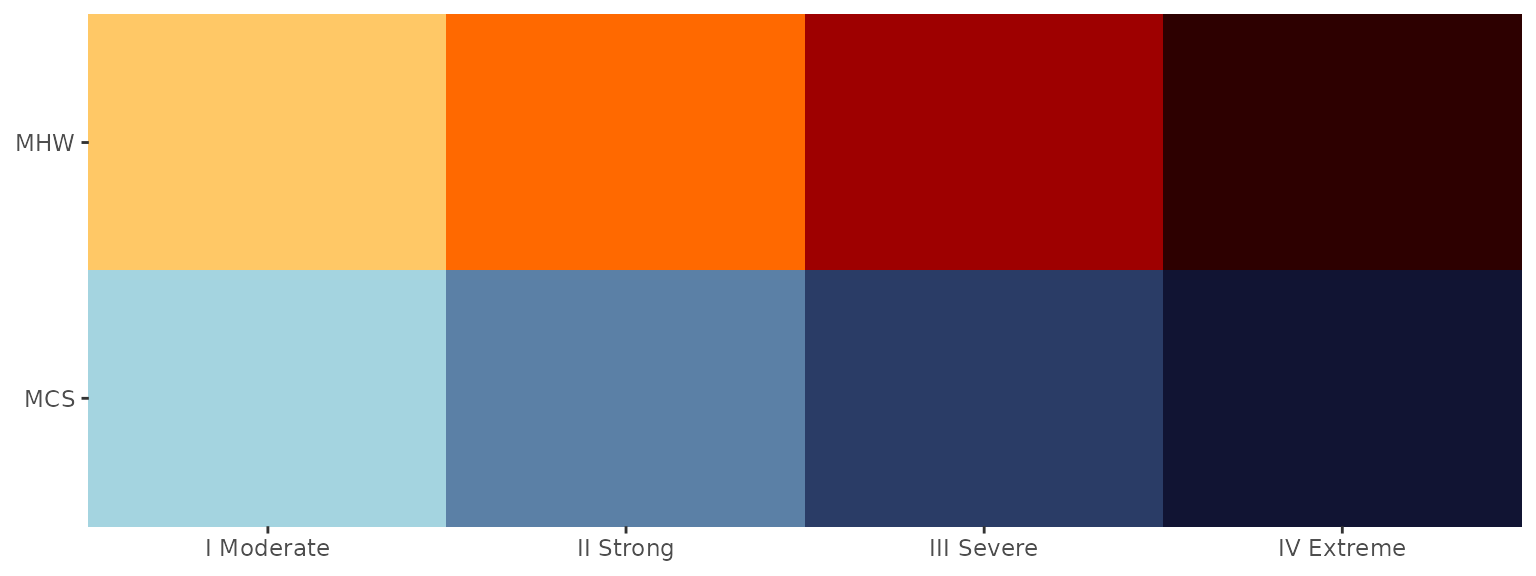
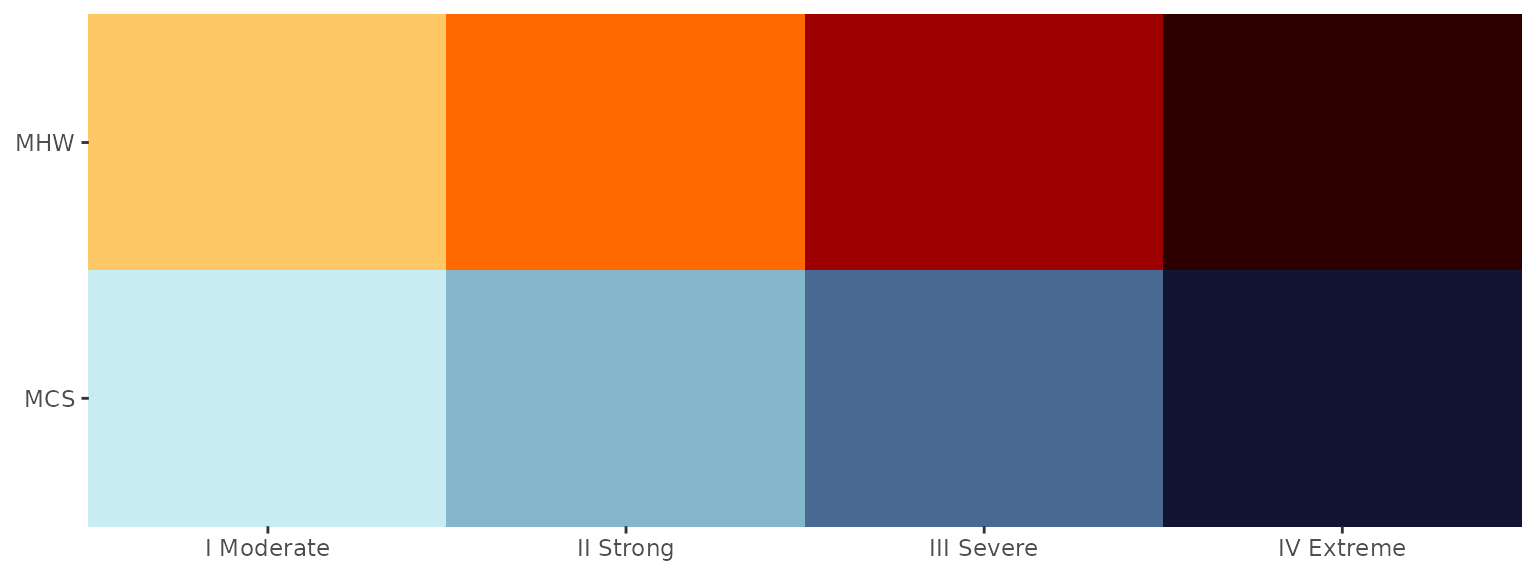
Rebuilt site to fix some formatting issues and for improved MCS colour palette

diff --git a/docs/articles/detection_and_visualisation.html b/docs/articles/detection_and_visualisation.html
@@ -46,7 +46,7 @@
       </button>
       <span class="navbar-brand">
         <a class="navbar-link" href="../index.html">heatwaveR</a>
-        <span class="version label label-default" data-toggle="tooltip" data-placement="bottom" title="Released version">0.4.5.9001</span>
+        <span class="version label label-default" data-toggle="tooltip" data-placement="bottom" title="Released version">0.4.5.9002</span>
       </span>
     </div>
 
@@ -128,7 +128,7 @@
       <h1 data-toc-skip>Basic Detection and Visualisation of Events</h1>
                         <h4 class="author">AJ Smit and Robert W Schlegel</h4>
             
-            <h4 class="date">2021-08-25</h4>
+            <h4 class="date">2021-09-21</h4>
       
       <small class="dont-index">Source: <a href="https://github.com/robwschlegel/heatwaveR/blob/master/vignettes/detection_and_visualisation.Rmd"><code>vignettes/detection_and_visualisation.Rmd</code></a></small>
       <div class="hidden name"><code>detection_and_visualisation.Rmd</code></div>
@@ -443,11 +443,17 @@
   <span class="va">positions</span> <span class="op">&lt;-</span> <span class="fu">plotly</span><span class="fu">::</span><span class="fu"><a href="https://docs.ropensci.org/plotly/reference/group2NA.html">group2NA</a></span><span class="op">(</span><span class="va">positions</span>, groupNames <span class="op">=</span> <span class="st">"ids"</span><span class="op">)</span>
   <span class="va">positions</span> <span class="op">&lt;-</span> <span class="va">positions</span><span class="op">[</span><span class="fu">stats</span><span class="fu">::</span><span class="fu"><a href="https://rdrr.io/r/stats/complete.cases.html">complete.cases</a></span><span class="op">(</span><span class="va">positions</span><span class="op">$</span><span class="va">ids</span><span class="op">)</span>,<span class="op">]</span>
   <span class="va">positions</span> <span class="op">&lt;-</span> <span class="fu">dplyr</span><span class="fu">::</span><span class="fu"><a href="https://dplyr.tidyverse.org/reference/mutate-joins.html">left_join</a></span><span class="op">(</span><span class="va">positions</span>, <span class="va">data</span><span class="op">[</span>,<span class="op">-</span><span class="fu"><a href="https://rdrr.io/r/base/c.html">c</a></span><span class="op">(</span><span class="fl">2</span>,<span class="fl">3</span><span class="op">)</span><span class="op">]</span>, by <span class="op">=</span> <span class="st">"x"</span><span class="op">)</span>
-  <span class="va">positions</span><span class="op">$</span><span class="va">PANEL</span> <span class="op">&lt;-</span> <span class="va">positions</span><span class="op">$</span><span class="va">PANEL</span><span class="op">[</span><span class="fu">stats</span><span class="fu">::</span><span class="fu"><a href="https://rdrr.io/r/stats/complete.cases.html">complete.cases</a></span><span class="op">(</span><span class="va">positions</span><span class="op">$</span><span class="va">PANEL</span><span class="op">)</span><span class="op">]</span><span class="op">[</span><span class="fl">1</span><span class="op">]</span>
-  <span class="va">positions</span><span class="op">$</span><span class="va">group</span> <span class="op">&lt;-</span> <span class="va">positions</span><span class="op">$</span><span class="va">group</span><span class="op">[</span><span class="fu">stats</span><span class="fu">::</span><span class="fu"><a href="https://rdrr.io/r/stats/complete.cases.html">complete.cases</a></span><span class="op">(</span><span class="va">positions</span><span class="op">$</span><span class="va">group</span><span class="op">)</span><span class="op">]</span><span class="op">[</span><span class="fl">1</span><span class="op">]</span>
+  <span class="kw">if</span><span class="op">(</span><span class="fu"><a href="https://rdrr.io/r/base/length.html">length</a></span><span class="op">(</span><span class="fu">stats</span><span class="fu">::</span><span class="fu"><a href="https://rdrr.io/r/stats/complete.cases.html">complete.cases</a></span><span class="op">(</span><span class="va">positions</span><span class="op">$</span><span class="va">PANEL</span><span class="op">)</span><span class="op">)</span> <span class="op">&gt;</span> <span class="fl">1</span><span class="op">)</span> 
+    <span class="va">positions</span><span class="op">$</span><span class="va">PANEL</span> <span class="op">&lt;-</span> <span class="va">positions</span><span class="op">$</span><span class="va">PANEL</span><span class="op">[</span><span class="fu">stats</span><span class="fu">::</span><span class="fu"><a href="https://rdrr.io/r/stats/complete.cases.html">complete.cases</a></span><span class="op">(</span><span class="va">positions</span><span class="op">$</span><span class="va">PANEL</span><span class="op">)</span><span class="op">]</span><span class="op">[</span><span class="fl">1</span><span class="op">]</span>
+  <span class="kw">if</span><span class="op">(</span><span class="fu"><a href="https://rdrr.io/r/base/length.html">length</a></span><span class="op">(</span><span class="fu">stats</span><span class="fu">::</span><span class="fu"><a href="https://rdrr.io/r/stats/complete.cases.html">complete.cases</a></span><span class="op">(</span><span class="va">positions</span><span class="op">$</span><span class="va">group</span><span class="op">)</span><span class="op">)</span> <span class="op">&gt;</span> <span class="fl">1</span><span class="op">)</span> 
+    <span class="va">positions</span><span class="op">$</span><span class="va">group</span> <span class="op">&lt;-</span> <span class="va">positions</span><span class="op">$</span><span class="va">group</span><span class="op">[</span><span class="fu">stats</span><span class="fu">::</span><span class="fu"><a href="https://rdrr.io/r/stats/complete.cases.html">complete.cases</a></span><span class="op">(</span><span class="va">positions</span><span class="op">$</span><span class="va">group</span><span class="op">)</span><span class="op">]</span><span class="op">[</span><span class="fl">1</span><span class="op">]</span>
   
   <span class="co"># Run the plotly polygon code</span>
-  <span class="fu"><a href="https://rdrr.io/r/utils/getFromNamespace.html">getFromNamespace</a></span><span class="op">(</span><span class="st">"geom2trace.GeomPolygon"</span>, <span class="fu"><a href="https://rdrr.io/r/base/ns-internal.html">asNamespace</a></span><span class="op">(</span><span class="st">"plotly"</span><span class="op">)</span><span class="op">)</span><span class="op">(</span><span class="va">positions</span><span class="op">)</span>
+  <span class="kw">if</span><span class="op">(</span><span class="fu"><a href="https://rdrr.io/r/base/length.html">length</a></span><span class="op">(</span><span class="fu"><a href="https://rdrr.io/r/base/unique.html">unique</a></span><span class="op">(</span><span class="va">positions</span><span class="op">$</span><span class="va">PANEL</span><span class="op">)</span><span class="op">)</span> <span class="op">==</span> <span class="fl">1</span><span class="op">)</span><span class="op">{</span>
+    <span class="fu"><a href="https://rdrr.io/r/utils/getFromNamespace.html">getFromNamespace</a></span><span class="op">(</span><span class="st">"geom2trace.GeomPolygon"</span>, <span class="fu"><a href="https://rdrr.io/r/base/ns-internal.html">asNamespace</a></span><span class="op">(</span><span class="st">"plotly"</span><span class="op">)</span><span class="op">)</span><span class="op">(</span><span class="va">positions</span><span class="op">)</span>
+  <span class="op">}</span> <span class="kw">else</span><span class="op">{</span>
+    <span class="kw"><a href="https://rdrr.io/r/base/function.html">return</a></span><span class="op">(</span><span class="op">)</span>
+  <span class="op">}</span>
 <span class="op">}</span>
 
 <span class="co"># Time series</span>

diff --git a/docs/articles/event_categories.html b/docs/articles/event_categories.html
@@ -46,7 +46,7 @@
       </button>
       <span class="navbar-brand">
         <a class="navbar-link" href="../index.html">heatwaveR</a>
-        <span class="version label label-default" data-toggle="tooltip" data-placement="bottom" title="Released version">0.4.5.9001</span>
+        <span class="version label label-default" data-toggle="tooltip" data-placement="bottom" title="Released version">0.4.5.9002</span>
       </span>
     </div>
 
@@ -128,7 +128,7 @@
       <h1 data-toc-skip>Calculating and Visualising Event Categories</h1>
                         <h4 class="author">Robert W Schlegel</h4>
             
-            <h4 class="date">2021-08-25</h4>
+            <h4 class="date">2021-09-21</h4>
       
       <small class="dont-index">Source: <a href="https://github.com/robwschlegel/heatwaveR/blob/master/vignettes/event_categories.Rmd"><code>vignettes/event_categories.Rmd</code></a></small>
       <div class="hidden name"><code>event_categories.Rmd</code></div>
@@ -365,14 +365,19 @@
                                                                 <span class="st">"dashed"</span>, <span class="st">"dotdash"</span>, <span class="st">"dotted"</span><span class="op">)</span>,
                                                    size <span class="op">=</span> <span class="fu"><a href="https://rdrr.io/r/base/c.html">c</a></span><span class="op">(</span><span class="fl">0.6</span>, <span class="fl">0.7</span>, <span class="fl">0.7</span>, <span class="fl">0.7</span>, <span class="fl">0.7</span>, <span class="fl">0.7</span><span class="op">)</span><span class="op">)</span><span class="op">)</span><span class="op">)</span> <span class="op">+</span>
   <span class="fu"><a href="https://ggplot2.tidyverse.org/reference/labs.html">labs</a></span><span class="op">(</span>y <span class="op">=</span> <span class="st">"Temperature [°C]"</span>, x <span class="op">=</span> <span class="cn">NULL</span><span class="op">)</span></code></pre></div>
-<p><img src="event_categories_files/figure-html/fig-example-4-1.png" width="768"> ## Category colour palettes</p>
+<p><img src="event_categories_files/figure-html/fig-example-4-1.png" width="768"></p>
+</div>
+</div>
+<div id="category-colour-palettes" class="section level2">
+<h2 class="hasAnchor">
+<a href="#category-colour-palettes" class="anchor"></a>Category colour palettes</h2>
 <p>For the sake of convenience the MHW and MCS colour palettes are provided below with a figure showing the direct comparison.</p>
 <div class="sourceCode" id="cb11"><pre class="downlit sourceCode r">
 <code class="sourceCode R"><span class="co"># The MCS colour palette</span>
 <span class="va">MCS_colours</span> <span class="op">&lt;-</span> <span class="fu"><a href="https://rdrr.io/r/base/c.html">c</a></span><span class="op">(</span>
-  <span class="st">"Moderate"</span> <span class="op">=</span> <span class="st">"#A4D4E0"</span>,
-  <span class="st">"Strong"</span> <span class="op">=</span> <span class="st">"#5B80A6"</span>,
-  <span class="st">"Severe"</span> <span class="op">=</span> <span class="st">"#2A3C66"</span>,
+  <span class="st">"Moderate"</span> <span class="op">=</span> <span class="st">"#C7ECF2"</span>,
+  <span class="st">"Strong"</span> <span class="op">=</span> <span class="st">"#85B7CC"</span>,
+  <span class="st">"Severe"</span> <span class="op">=</span> <span class="st">"#4A6A94"</span>,
   <span class="st">"Extreme"</span> <span class="op">=</span> <span class="st">"#111433"</span>
 <span class="op">)</span>
 
@@ -397,7 +402,6 @@
   <span class="fu"><a href="https://ggplot2.tidyverse.org/reference/coord_cartesian.html">coord_cartesian</a></span><span class="op">(</span>expand <span class="op">=</span> <span class="cn">F</span><span class="op">)</span> <span class="op">+</span>
   <span class="fu"><a href="https://ggplot2.tidyverse.org/reference/labs.html">labs</a></span><span class="op">(</span>x <span class="op">=</span> <span class="cn">NULL</span>, y <span class="op">=</span> <span class="cn">NULL</span><span class="op">)</span></code></pre></div>
 <p><img src="event_categories_files/figure-html/comp-fig-1.png" width="768"></p>
-</div>
 </div>
   </div>
 

diff --git a/docs/reference/detect_event.html b/docs/reference/detect_event.html
@@ -100,7 +100,7 @@ other means." />
       </button>
       <span class="navbar-brand">
         <a class="navbar-link" href="../index.html">heatwaveR</a>
-        <span class="version label label-default" data-toggle="tooltip" data-placement="bottom" title="Released version">0.4.5.9001</span>
+        <span class="version label label-default" data-toggle="tooltip" data-placement="bottom" title="Released version">0.4.5.9002</span>
       </span>
     </div>
 
@@ -225,7 +225,7 @@ variable (by default it is assumed to be temperature), <code>seas</code> is the 
 cycle daily climatology (366 days), and <code>thresh</code> is the seasonal cycle
 daily threshold above which events may be detected. Data of the appropriate
 format are created by the function <code><a href='ts2clm.html'>ts2clm</a></code>, but your own data
-can be supplied if they meet the criteria specified by <code><a href='ts2clm.html'>ts2clm</a></code>
+can be supplied if they meet the criteria specified by <code><a href='ts2clm.html'>ts2clm</a></code>.
 If the column names of <code>data</code> match those outlined here, the following
 four arguments may be ignored.</p></td>
     </tr>
@@ -243,9 +243,10 @@ name differs from the default (i.e. <code>temp</code>), specify the name here.</
     </tr>
     <tr>
       <th>seasClim</th>
-      <td><p>This function will assume that the seasonal climatology column
-is called <code>seas</code> as this matches the output of <code><a href='ts2clm.html'>ts2clm</a></code>.
-If the column name for the seasonal climatology is different, provide that here.</p></td>
+      <td><p>The dafault for this argument assumes that the seasonal
+climatology column is called <code>seas</code> as this matches the output of
+<code><a href='ts2clm.html'>ts2clm</a></code>. If the column name for the seasonal climatology is
+different, provide that here.</p></td>
     </tr>
     <tr>
       <th>threshClim</th>

diff --git a/docs/news/index.html b/docs/news/index.html
@@ -95,7 +95,7 @@
       </button>
       <span class="navbar-brand">
         <a class="navbar-link" href="../index.html">heatwaveR</a>
-        <span class="version label label-default" data-toggle="tooltip" data-placement="bottom" title="Released version">0.4.5.9001</span>
+        <span class="version label label-default" data-toggle="tooltip" data-placement="bottom" title="Released version">0.4.5.9002</span>
       </span>
     </div>
 
@@ -178,6 +178,18 @@
       <small>Source: <a href='https://github.com/robwschlegel/heatwaveR/blob/master/NEWS.md'><code>NEWS.md</code></a></small>
     </div>
 
+    <div id="heatwaver-0459002-2021-08-21" class="section level1">
+<h1 class="page-header" data-toc-text="0.4.5.9002">
+<a href="#heatwaver-0459002-2021-08-21" class="anchor"></a>heatwaveR 0.4.5.9002 (2021-08-21)<small> Unreleased </small>
+</h1>
+<ul>
+<li>Updated the MCS colour palette throughout the package
+<ul>
+<li>The new colour palette is very similar, but with improved contrast</li>
+</ul>
+</li>
+</ul>
+</div>
     <div id="heatwaver-0459001-2021-08-25" class="section level1">
 <h1 class="page-header" data-toc-text="0.4.5.9001">
 <a href="#heatwaver-0459001-2021-08-25" class="anchor"></a>heatwaveR 0.4.5.9001 (2021-08-25)<small> Unreleased </small>

diff --git a/docs/articles/gridded_event_detection.html b/docs/articles/gridded_event_detection.html
@@ -46,7 +46,7 @@
       </button>
       <span class="navbar-brand">
         <a class="navbar-link" href="../index.html">heatwaveR</a>
-        <span class="version label label-default" data-toggle="tooltip" data-placement="bottom" title="Released version">0.4.5.9001</span>
+        <span class="version label label-default" data-toggle="tooltip" data-placement="bottom" title="Released version">0.4.5.9002</span>
       </span>
     </div>
 
@@ -128,7 +128,7 @@
       <h1 data-toc-skip>Detecting Events in Gridded Data</h1>
                         <h4 class="author">Robert W Schlegel and AJ Smit</h4>
             
-            <h4 class="date">2021-08-25</h4>
+            <h4 class="date">2021-09-21</h4>
       
       <small class="dont-index">Source: <a href="https://github.com/robwschlegel/heatwaveR/blob/master/vignettes/gridded_event_detection.Rmd"><code>vignettes/gridded_event_detection.Rmd</code></a></small>
       <div class="hidden name"><code>gridded_event_detection.Rmd</code></div>

diff --git a/docs/articles/OISST_preparation.html b/docs/articles/OISST_preparation.html
@@ -46,7 +46,7 @@
       </button>
       <span class="navbar-brand">
         <a class="navbar-link" href="../index.html">heatwaveR</a>
-        <span class="version label label-default" data-toggle="tooltip" data-placement="bottom" title="Released version">0.4.5.9001</span>
+        <span class="version label label-default" data-toggle="tooltip" data-placement="bottom" title="Released version">0.4.5.9002</span>
       </span>
     </div>
 
@@ -128,7 +128,7 @@
       <h1 data-toc-skip>Downloading and Preparing NOAA OISST Data</h1>
                         <h4 class="author">Robert W Schlegel and AJ Smit</h4>
             
-            <h4 class="date">2021-08-25</h4>
+            <h4 class="date">2021-09-21</h4>
       
       <small class="dont-index">Source: <a href="https://github.com/robwschlegel/heatwaveR/blob/master/vignettes/OISST_preparation.Rmd"><code>vignettes/OISST_preparation.Rmd</code></a></small>
       <div class="hidden name"><code>OISST_preparation.Rmd</code></div>

diff --git a/docs/articles/exceedance.html b/docs/articles/exceedance.html
@@ -46,7 +46,7 @@
       </button>
       <span class="navbar-brand">
         <a class="navbar-link" href="../index.html">heatwaveR</a>
-        <span class="version label label-default" data-toggle="tooltip" data-placement="bottom" title="Released version">0.4.5.9001</span>
+        <span class="version label label-default" data-toggle="tooltip" data-placement="bottom" title="Released version">0.4.5.9002</span>
       </span>
     </div>
 
@@ -128,7 +128,7 @@
       <h1 data-toc-skip>Calculating and Visualising Exceedances</h1>
                         <h4 class="author">Robert W Schlegel</h4>
             
-            <h4 class="date">2021-08-25</h4>
+            <h4 class="date">2021-09-21</h4>
       
       <small class="dont-index">Source: <a href="https://github.com/robwschlegel/heatwaveR/blob/master/vignettes/exceedance.Rmd"><code>vignettes/exceedance.Rmd</code></a></small>
       <div class="hidden name"><code>exceedance.Rmd</code></div>

diff --git a/docs/articles/complex_clims.html b/docs/articles/complex_clims.html
@@ -46,7 +46,7 @@
       </button>
       <span class="navbar-brand">
         <a class="navbar-link" href="../index.html">heatwaveR</a>
-        <span class="version label label-default" data-toggle="tooltip" data-placement="bottom" title="Released version">0.4.5.9001</span>
+        <span class="version label label-default" data-toggle="tooltip" data-placement="bottom" title="Released version">0.4.5.9002</span>
       </span>
     </div>
 
@@ -128,7 +128,7 @@
       <h1 data-toc-skip>Alternative Thresholds</h1>
                         <h4 class="author">Robert W Schlegel</h4>
             
-            <h4 class="date">2021-08-25</h4>
+            <h4 class="date">2021-09-21</h4>
       
       <small class="dont-index">Source: <a href="https://github.com/robwschlegel/heatwaveR/blob/master/vignettes/complex_clims.Rmd"><code>vignettes/complex_clims.Rmd</code></a></small>
       <div class="hidden name"><code>complex_clims.Rmd</code></div>

diff --git a/docs/articles/MHW_to_nc.html b/docs/articles/MHW_to_nc.html
@@ -46,7 +46,7 @@
       </button>
       <span class="navbar-brand">
         <a class="navbar-link" href="../index.html">heatwaveR</a>
-        <span class="version label label-default" data-toggle="tooltip" data-placement="bottom" title="Released version">0.4.5.9001</span>
+        <span class="version label label-default" data-toggle="tooltip" data-placement="bottom" title="Released version">0.4.5.9002</span>
       </span>
     </div>
 
@@ -128,7 +128,7 @@
       <h1 data-toc-skip>Saving MHW Results to NetCDF</h1>
                         <h4 class="author">Robert W Schlegel</h4>
             
-            <h4 class="date">2021-08-25</h4>
+            <h4 class="date">2021-09-21</h4>
       
       <small class="dont-index">Source: <a href="https://github.com/robwschlegel/heatwaveR/blob/master/vignettes/MHW_to_nc.Rmd"><code>vignettes/MHW_to_nc.Rmd</code></a></small>
       <div class="hidden name"><code>MHW_to_nc.Rmd</code></div>

diff --git a/docs/reference/ts2clm.html b/docs/reference/ts2clm.html
@@ -98,7 +98,7 @@ by an optional moving average smoother as used by Hobday et al. (2016)." />
       </button>
       <span class="navbar-brand">
         <a class="navbar-link" href="../index.html">heatwaveR</a>
-        <span class="version label label-default" data-toggle="tooltip" data-placement="bottom" title="Released version">0.4.5.9001</span>
+        <span class="version label label-default" data-toggle="tooltip" data-placement="bottom" title="Released version">0.4.5.9002</span>
       </span>
     </div>
 

diff --git a/docs/reference/sst_NW_Atl.html b/docs/reference/sst_NW_Atl.html
@@ -97,7 +97,7 @@ date for the Northwest Atlantic region from 1982-01-01 to 2019-12-31." />
       </button>
       <span class="navbar-brand">
         <a class="navbar-link" href="../index.html">heatwaveR</a>
-        <span class="version label label-default" data-toggle="tooltip" data-placement="bottom" title="Released version">0.4.5.9001</span>
+        <span class="version label label-default" data-toggle="tooltip" data-placement="bottom" title="Released version">0.4.5.9002</span>
       </span>
     </div>
 

diff --git a/docs/reference/sst_WA.html b/docs/reference/sst_WA.html
@@ -97,7 +97,7 @@ date for the Western Australian region from 1982-01-01 to 2019-12-31." />
       </button>
       <span class="navbar-brand">
         <a class="navbar-link" href="../index.html">heatwaveR</a>
-        <span class="version label label-default" data-toggle="tooltip" data-placement="bottom" title="Released version">0.4.5.9001</span>
+        <span class="version label label-default" data-toggle="tooltip" data-placement="bottom" title="Released version">0.4.5.9002</span>
       </span>
     </div>
 
